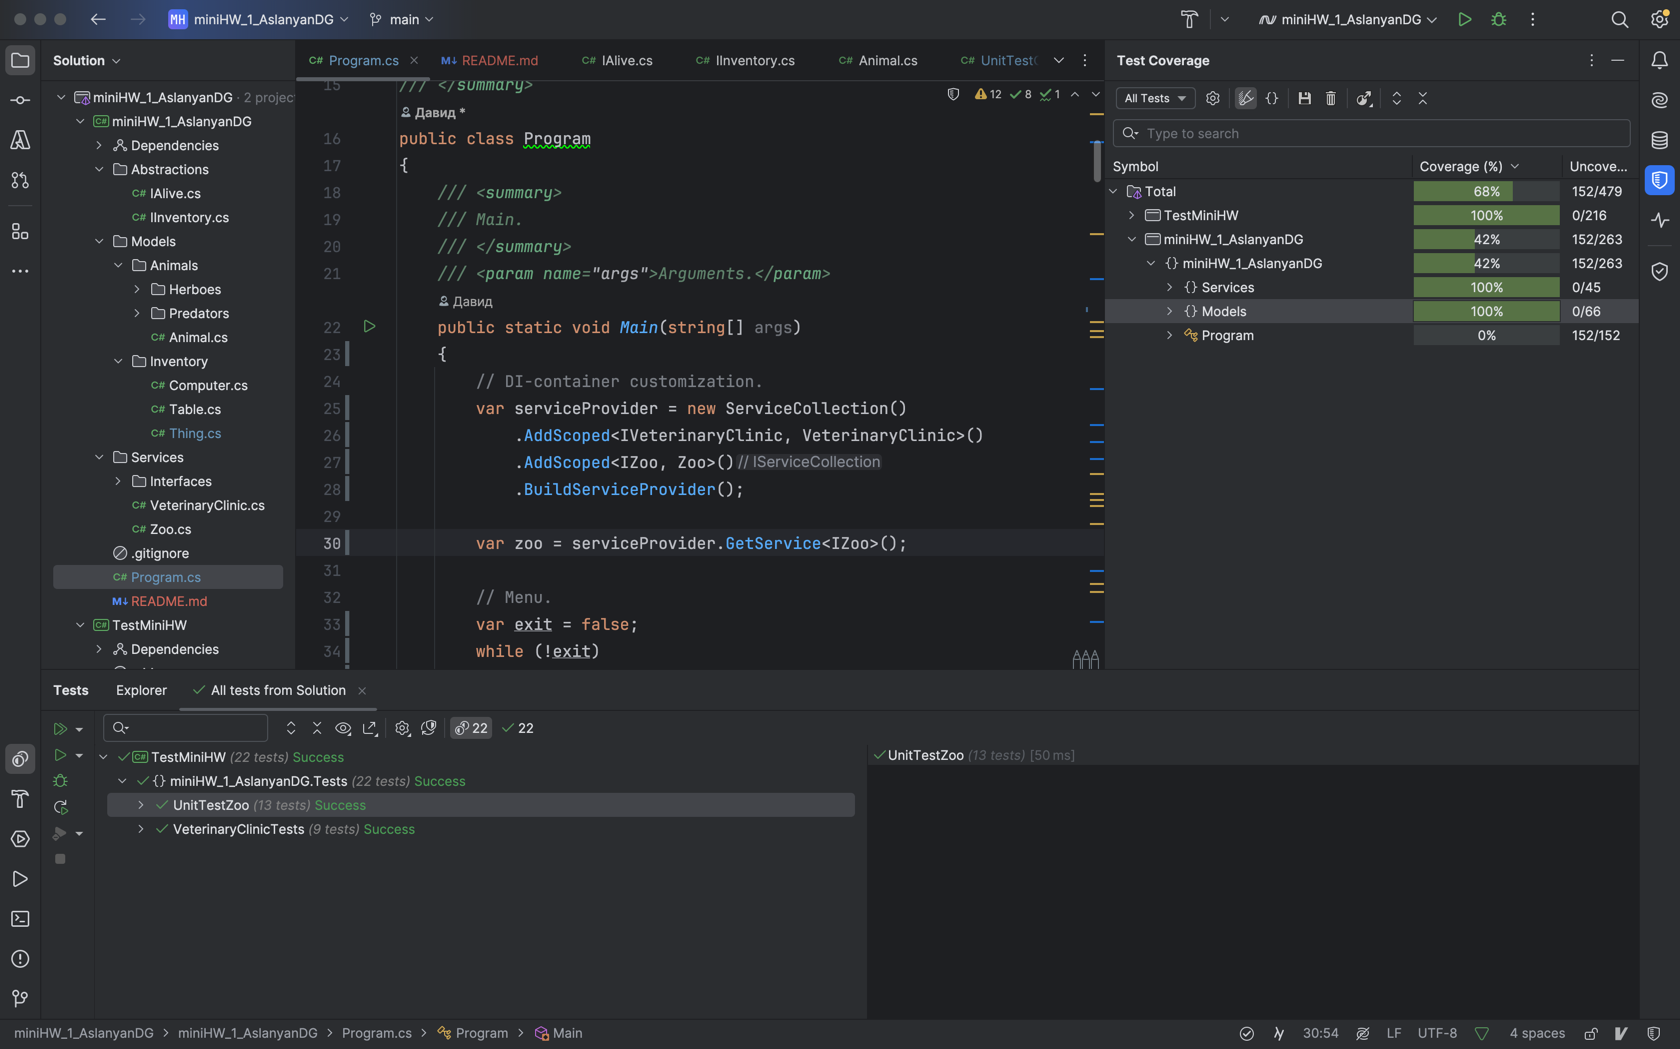
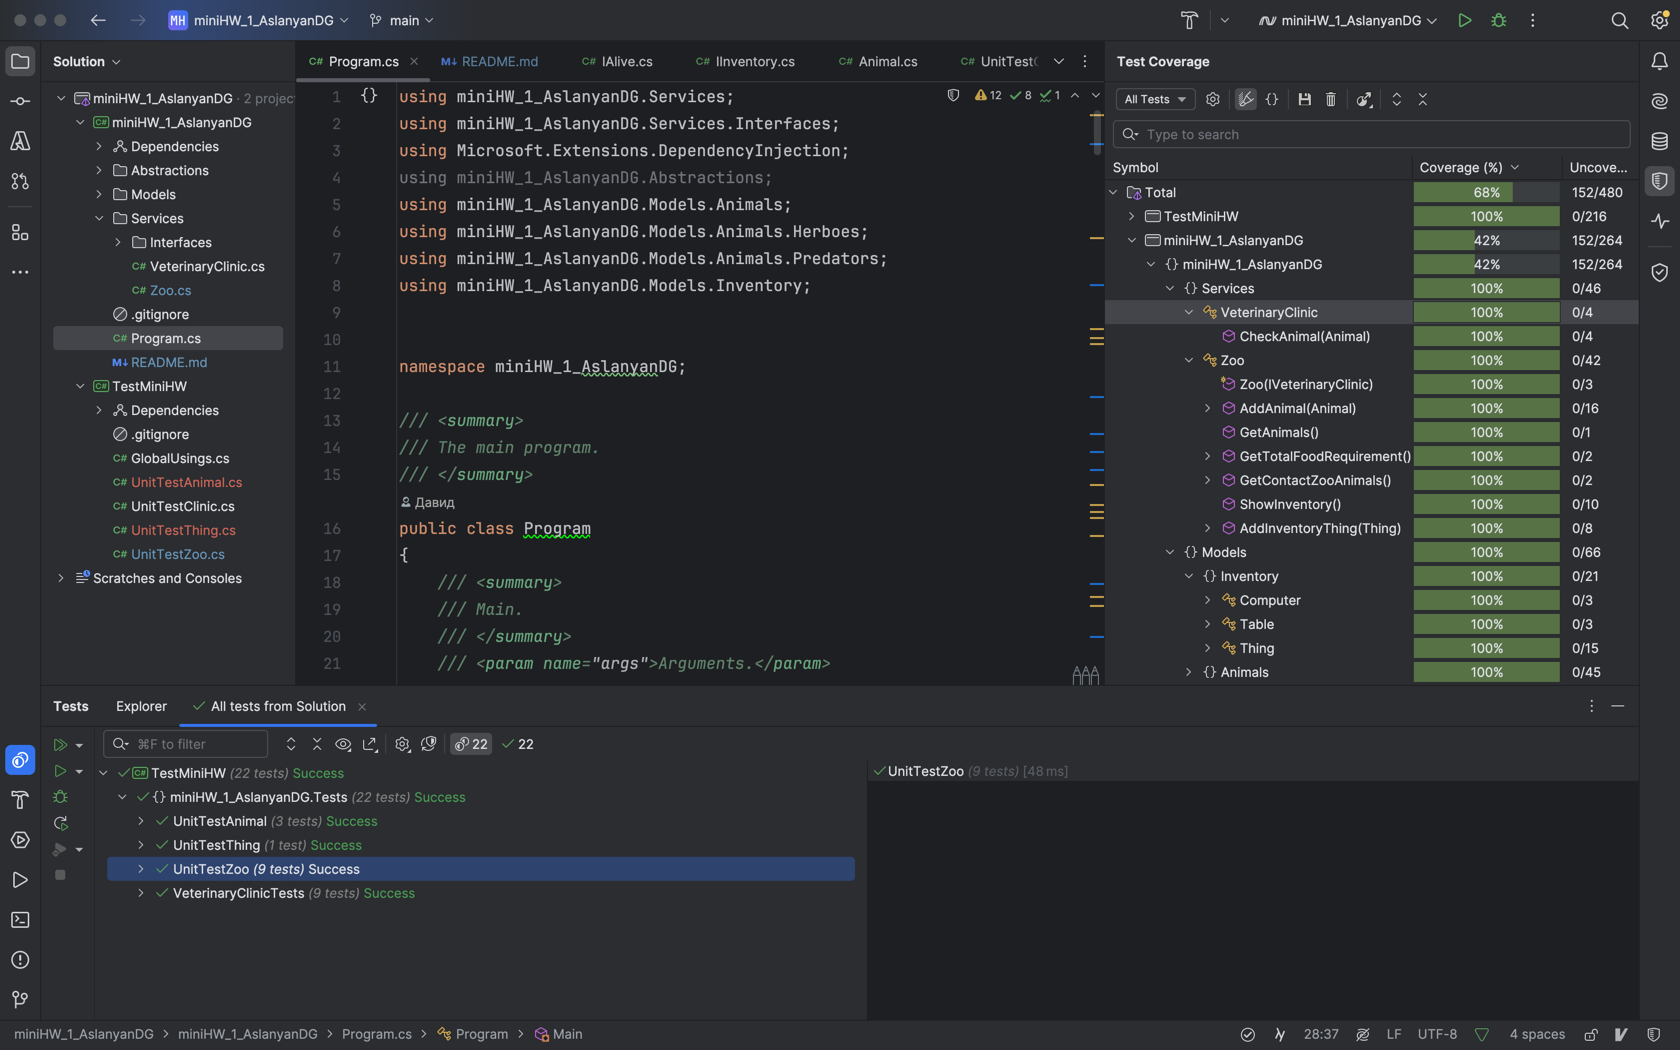
done

diff --git a/TestMiniHW/UnitTestZoo.cs b/TestMiniHW/UnitTestZoo.cs
@@ -101,54 +101,6 @@ public class UnitTestZoo
         }
 
         [Fact]
-        public void CreateHerboWithInvalidKindness_ShouldThrowException()
-        {
-            // Arrange && Act && Assert
-            Assert.Throws<ArgumentException>(() => new Rabbit("Rab", 3, 7, 505, 11));
-        }
-
-        [Fact]
-        public void CreateThingWithEmptyName_ShouldThrowArgumentNullException()
-        {
-            // Arrange
-            uint number = 1;
-            string invalidName = "";
-            
-            // Act & Assert
-            Assert.Throws<ArgumentNullException>(() => new Thing(number, invalidName));
-        }
-        
-        [Fact]
-        public void CreateAnimalWithEmptyName_ShouldThrowArgumentNullException()
-        {
-            // Arrange
-            string invalidName = "";
-            uint food = 10;
-            uint health = 100;
-            uint number = 1;
-
-            // Act & Assert
-            Assert.Throws<ArgumentNullException>(() => new TestAnimal(invalidName, food, health, number));
-        }
-        
-        [Fact]
-        public void ToString_ShouldReturnCorrectFormat()
-        {
-            // Arrange
-            string name = "Bars";
-            uint food = 20;
-            uint health = 100;
-            uint number = 101;
-            var animal = new TestAnimal(name, food, health, number);
-
-            // Act
-            string result = animal.ToString();
-
-            // Assert
-            Assert.Equal("Bars (ID: 101) (Health: 100)", result);
-        }
-
-        [Fact]
         public void AddUnhealthyAnimal_ShouldNotBeAccepted()
         {
             // Arrange

diff --git a/TestMiniHW/UnitTestAnimal.cs b/TestMiniHW/UnitTestAnimal.cs
@@ -1,0 +1,43 @@
+using miniHW_1_AslanyanDG.Models.Animals.Herboes;
+
+namespace miniHW_1_AslanyanDG.Tests;
+
+public class UnitTestAnimal
+{
+    [Fact]
+    public void CreateHerboWithInvalidKindness_ShouldThrowException()
+    {
+        // Arrange && Act && Assert
+        Assert.Throws<ArgumentException>(() => new Rabbit("Rab", 3, 7, 505, 11));
+    }
+    
+    [Fact]
+    public void CreateAnimalWithEmptyName_ShouldThrowArgumentNullException()
+    {
+        // Arrange
+        string invalidName = "";
+        uint food = 10;
+        uint health = 100;
+        uint number = 1;
+
+        // Act & Assert
+        Assert.Throws<ArgumentNullException>(() => new TestAnimal(invalidName, food, health, number));
+    }
+    
+    [Fact]
+    public void ToString_ShouldReturnCorrectFormat()
+    {
+        // Arrange
+        string name = "Bars";
+        uint food = 20;
+        uint health = 100;
+        uint number = 101;
+        var animal = new TestAnimal(name, food, health, number);
+
+        // Act
+        string result = animal.ToString();
+
+        // Assert
+        Assert.Equal("Bars (ID: 101) (Health: 100)", result);
+    }
+}

diff --git a/miniHW_1_AslanyanDG/Services/Zoo.cs b/miniHW_1_AslanyanDG/Services/Zoo.cs
@@ -22,7 +22,8 @@ public class Zoo(IVeterinaryClinic vetClinic) : IZoo
     /// <param name="animal">Animal.</param>
     public void AddAnimal(Animal animal)
     {
-        if (_animals.Any(a => a.Number == animal.Number))
+        if (_animals.Any(a => a.Number == animal.Number) || 
+            _inventoryItems.Any(a => a.Number == animal.Number))
         {
             Console.WriteLine($"Животное с номером {animal.Number} уже в зоопарке!");
             return;

diff --git a/TestMiniHW/UnitTestThing.cs b/TestMiniHW/UnitTestThing.cs
@@ -1,0 +1,17 @@
+using miniHW_1_AslanyanDG.Models.Inventory;
+
+namespace miniHW_1_AslanyanDG.Tests;
+
+public class UnitTestThing
+{
+    [Fact]
+    public void CreateThingWithEmptyName_ShouldThrowArgumentNullException()
+    {
+        // Arrange
+        uint number = 1;
+        string invalidName = "";
+            
+        // Act & Assert
+        Assert.Throws<ArgumentNullException>(() => new Thing(number, invalidName));
+    }
+}

diff --git a/miniHW_1_AslanyanDG/README.md b/miniHW_1_AslanyanDG/README.md
@@ -56,11 +56,11 @@
 то выводится соответсвующее сообщение о некорректном вводе
 имени.
 4. Номера (ID): я сделал так, чтобы нумеровались все и животные
-и вещи, но с условием того, что может быть животное и вещь с одинаковым ID.
-IDшники должны по моей логике отличаться только внутри Животных и внутри Вещей 
-и если вдруг будет создано Животное с ID=1, например, а потом еще раз попытка создания 
-Животного с ID=1 - будет выведено сообщение о том, что такое животное уже есть, то же самое касается и вещей. 
-Но что животные, что вещи являются инвентарем зоопарка.
+и вещи, каждый из этих двух типов является инвентарем в рамках зоопарка
+и дублирование ID в рамках инвентаря запрещено
+(иначе это будет вкорне нарушать атомарность данных).
+Поэтому, если, например, добавлено животное с ID=1, то вещь с ID=1 добавить нельзя
+и наоборот.
 5. В контактный зоопарк попадают травоядные с добротой >= 5, если вообще допущены в зоопарк по здоровью.
 6. При выводе инвенторя - выводятся как животные так и вещи зоопарка с соотнветствующими пометками "Животное", "Вещь".
 7. В IInventory интерфейсе помимо свойства Number от себя добавил метод **ShowInventoryInfo()**
@@ -128,7 +128,7 @@ var serviceProvider = new ServiceCollection()
 ```
 Этот код использует **Dependency Injection (DI)**, где `ServiceCollection` регистрирует зависимости (`IVeterinaryClinic` и `IZoo`) с областью `Scoped`, а затем `BuildServiceProvider()` создает контейнер, позволяющий запрашивать экземпляры сервисов (`zoo = serviceProvider.GetService<IZoo>()`) без привязки к конкретным реализациям, что улучшает тестируемость и поддерживаемость кода.
 
-`Scoped` значит, что объект будет существовать только в момент к его обращению и потом удаляется.
+`Scoped` значит, что объект будет существовать все время области видимости и после его выхода будет удаляться из памяти.
 
 ---
 
